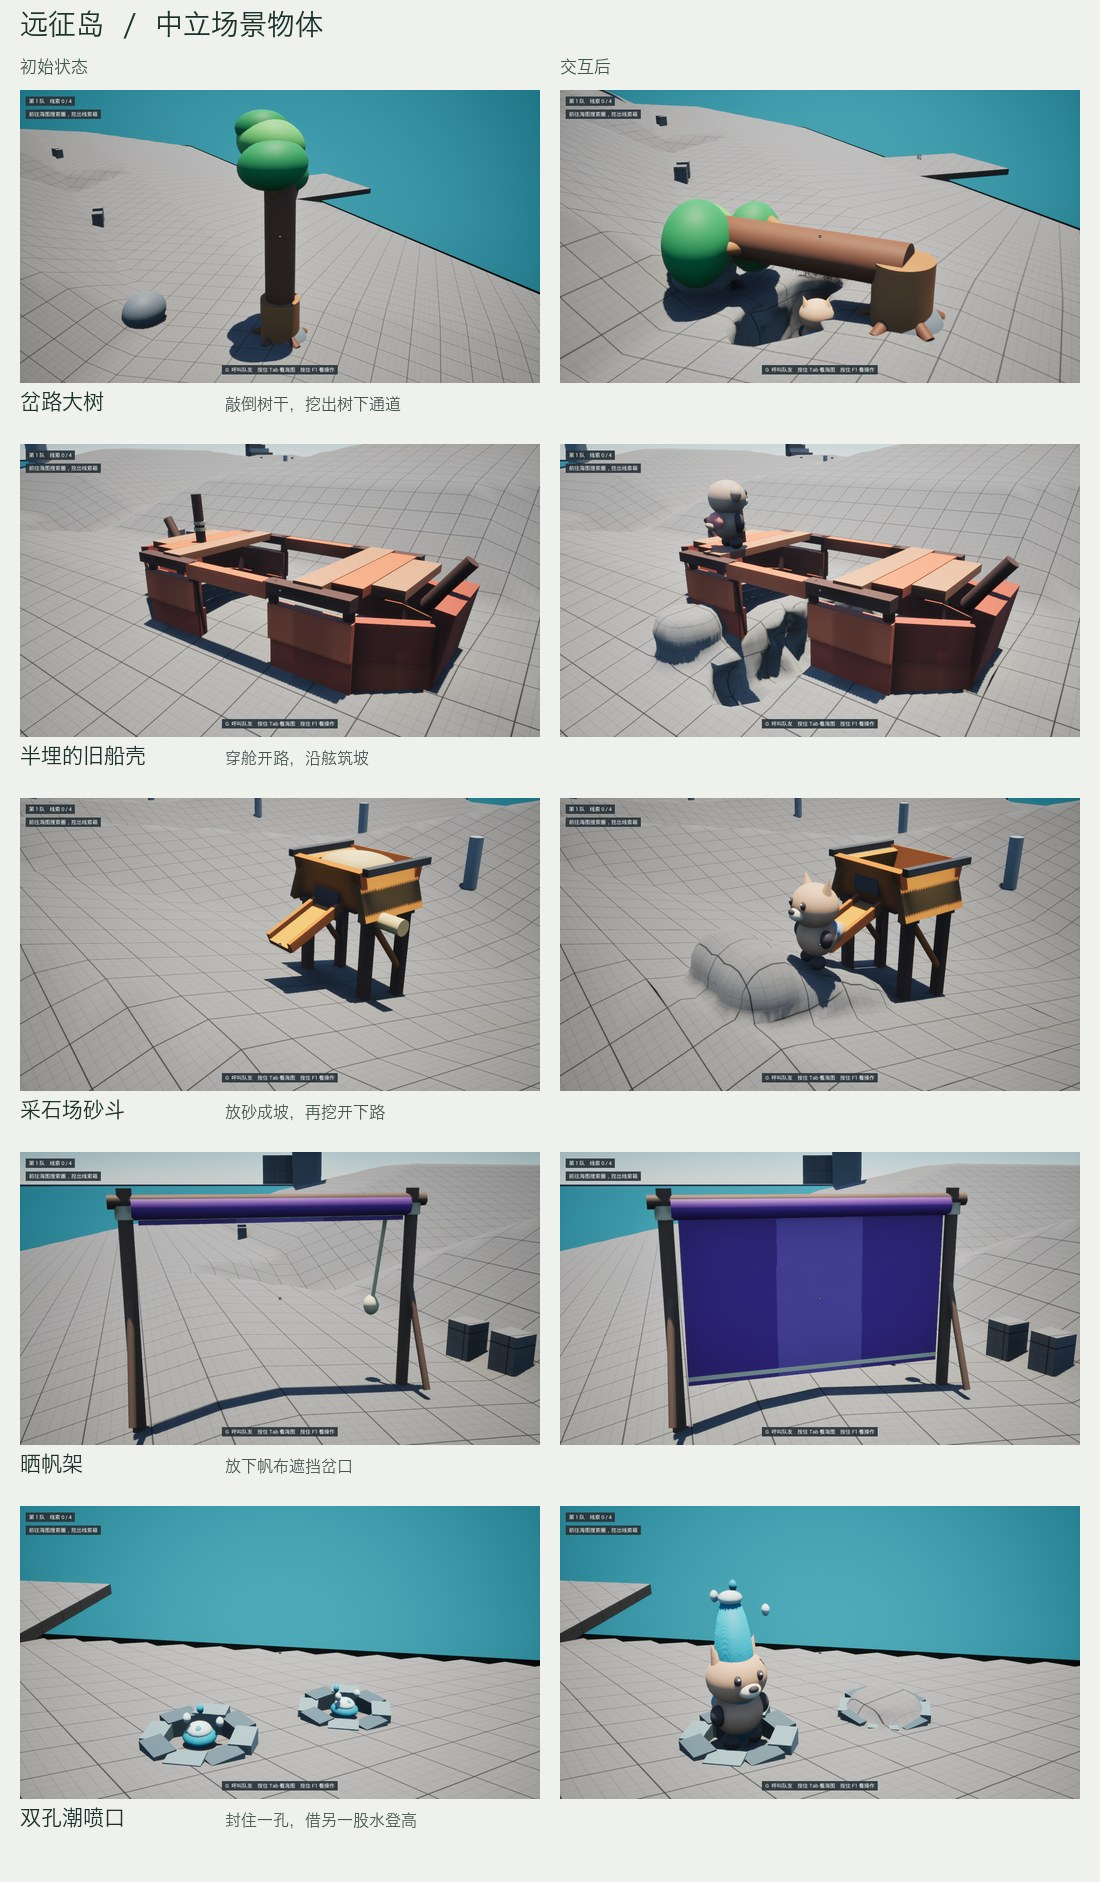
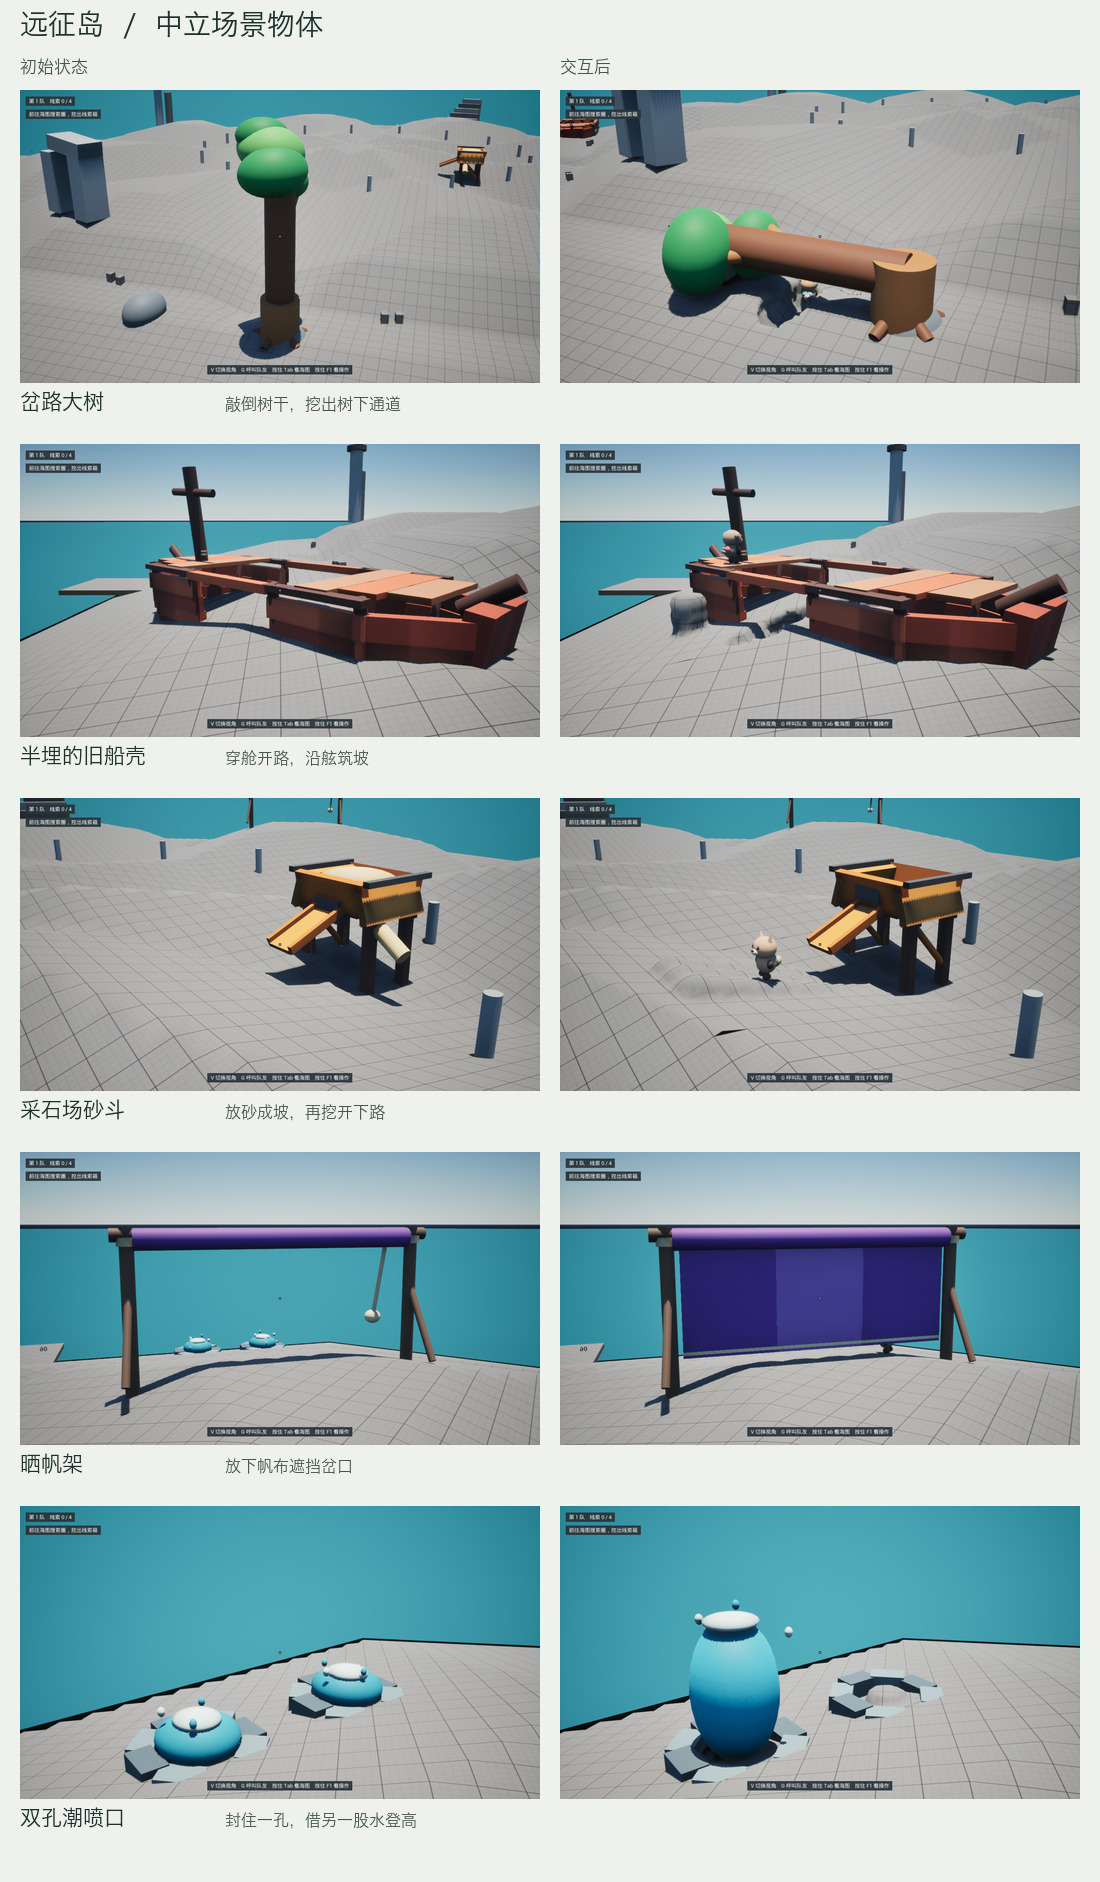
补充双端视角、搜索海图和五种地标的实机回归记录

diff --git a/ActDemo/Source/ActDemo/Tests/IslandUIProbe.cpp b/ActDemo/Source/ActDemo/Tests/IslandUIProbe.cpp
@@ -207,6 +207,26 @@ namespace
         if (Stage>=4) return true;
         auto* Hero=Cast<AVoxelCharacter>(PC.GetPawn());
         if (!Hero) return false;
+        // The first replication burst can include an opposing player as they spawn,
+        // then cull them on the next frame. Move both pawns well inside 150 m.
+        static bool WalkingInland=false;
+        const auto* State=PC.GetWorld()->GetGameState<AIslandGameState>();
+        if (Stage==0 && State && State->ActiveTeams>1 && Hero->GetActorLocation().Size2D()>6700.)
+        {
+            if (!WalkingInland)
+            {
+                PC.SetControlRotation((-Hero->GetActorLocation().GetSafeNormal2D()).Rotation());
+                Key(PC,EKeys::W,true);
+                WalkingInland=true;
+            }
+            return false;
+        }
+        if (WalkingInland)
+        {
+            Key(PC,EKeys::W,false);
+            WalkingInland=false;
+            return false;
+        }
         int32 Body=0, Paws=0, Others=0;
         for (TActorIterator<AVoxelCharacter> It(PC.GetWorld()); It; ++It)
         {
@@ -222,25 +242,7 @@ namespace
             if (*It==Hero) { Body=BodyParts; Paws=EyeParts; }
             else if (BodyParts>=6 && EyeParts==0) ++Others;
         }
-        // Opposing docks are beyond the pawn's 150 m net relevance. Walk inland
-        // through the real input mapping before checking the opponent's model.
-        static bool WalkingInland=false;
-        if (Others<Seats-1)
-        {
-            if (Stage==0 && !WalkingInland)
-            {
-                PC.SetControlRotation((-Hero->GetActorLocation().GetSafeNormal2D()).Rotation());
-                Key(PC,EKeys::W,true);
-                WalkingInland=true;
-            }
-            return false;
-        }
-        if (WalkingInland)
-        {
-            Key(PC,EKeys::W,false);
-            WalkingInland=false;
-            return false;
-        }
+        if (Others<Seats-1) return false;
 
         FVector Eye;
         FRotator View;

diff --git a/Docs/Expedition.md b/Docs/Expedition.md
@@ -160,7 +160,15 @@ python3 Scripts/island_qa.py --scenario neutral --seed 25 --mode both --screensh
 
 ## 双视角与搜索圈复验
 
-在默认远征岛上复验 256 个种子，相同种子的四箱及大奖坐标逐一重现。用圈心连线猜大奖，最近偏差 10.01 米，中位偏差 12.42 米，最远偏差 20.17 米。改用开箱得到的四个坐标，256 次都命中真交点。另测 64 个种子的中立物体，所有已选布局都在物体同时触发后保留通路。种子 25 可以在同一局看到五种物体。
+Mac 试玩包在同机房主与来宾双进程下通过视角切换。模拟 2% 丢包时，两端都能用 V 往返切换，第一人称的水平和陡俯视准星都与挖、丢的方向一致。海图打开时按 V，关闭后保留原视角。[第三人称](Screenshots/ExpeditionThirdPerson.jpg) · [第一人称](Screenshots/ExpeditionFirstPerson.jpg)
+
+单人从码头步行 30.2 米，挖开并取得第一条线索。本队海图随即在实际 A 箱位置留下实点，B、C、D 仍显示为搜索区。[开局海图](Screenshots/ExpeditionSearchChartStart.jpg) · [取得 A 线索](Screenshots/ExpeditionSearchChartFirstClue.jpg)
+
+在默认远征岛上复验 256 个种子，相同种子的四箱及大奖坐标逐一重现。用圈心连线猜大奖，最近偏差 10.01 米，中位偏差 12.42 米，最远偏差 20.17 米。改用开箱得到的四个坐标，256 次都命中真交点。另测 64 个种子的中立物体，所有已选布局都在物体同时触发后保留通路。编辑器与 Mac 试玩包对同种子的 321 件物体给出了相同的种类、位置和朝向。种子 25 可以在同一局看到五种物体。
+
+在种子 25 的两队三进程对局中，后来的一队从倒树下穿过 3.41 米，穿过船舱 7.55 米，再用土坡登上甲板。落砂成坡后走了 2.88 米、爬升 0.93 米，坡脚随后被挖低 0.79 米。两队先后收放同一面帆。潮喷实际把角色向前送出 8.58 米。模拟 80 毫秒往返延迟、2% 丢包后，五种互动也全部完成。[五种白模触发前后](Screenshots/ExpeditionNeutralProps.jpg)
+
+在本机多进程复验期间，macOS 记录过游戏窗口打开前的 UE 内存跟踪器启动崩溃。同一试玩包使用相同参数再次启动后，完成了从首页到第一条线索的实玩。
 
 ```sh
 python3 Scripts/expedition_ui_qa.py --scenario pair --perspective --shots
@@ -183,7 +191,7 @@ python3 Scripts/expedition_ui_qa.py --scenario chart --shots
 
 另一场三进程对局中，两种网络都复现了单人用五团土封顶、受击者侧挖穿出并反投命中，以及仅用右键垫出队友挖好的窄坑。鼠标左右键可同时按住，松开左键后右键继续投掷。土壳在三个进程测得高度同为 1.20 米。模拟丢包时，两名投手相隔 0.101 秒打中同一角色，只算一次；苏醒保护期间两人各打中三团，保护结束后的第一团重新从第一层累计。[正常网络与实机截图](../ActDemo/Saved/GasMudReleaseQA/mud/normal/summary.json) · [模拟丢包](../ActDemo/Saved/GasMudReleaseQA/mud/emulated/summary.json)
 
-种子 25 的三进程对局中，一队放倒树，另一队用浅铲挖低树下路面，从树下穿过 2.11 米。这条测试路线清出了整个胶囊宽度的通道，共用 29 铲。角色还实际穿过 4.58 米船舱，沿土坡登上甲板，走上砂斗堆出的 78 厘米砂坡后挖开坡脚。两队先后放帆、收帆，堵住一侧潮孔后成功借水柱登台。模拟丢包也通过了全部五种交互。[五种场景的前后实拍](Screenshots/ExpeditionNeutralProps.jpg) · [普通网络](../ActDemo/Saved/GasNeutralFinalQA/neutral/normal/summary.json) · [模拟丢包](../ActDemo/Saved/GasNeutralFinalQA/neutral/emulated/summary.json)
+种子 25 的三进程对局中，一队放倒树，另一队用浅铲挖低树下路面，从树下穿过 2.11 米。这条测试路线清出了整个胶囊宽度的通道，共用 29 铲。角色还实际穿过 4.58 米船舱，沿土坡登上甲板，走上砂斗堆出的 78 厘米砂坡后挖开坡脚。两队先后放帆、收帆，堵住一侧潮孔后成功借水柱登台。模拟丢包也通过了全部五种交互。[普通网络](../ActDemo/Saved/GasNeutralFinalQA/neutral/normal/summary.json) · [模拟丢包](../ActDemo/Saved/GasNeutralFinalQA/neutral/emulated/summary.json)
 
 ## 此前版本的本机验收
 
